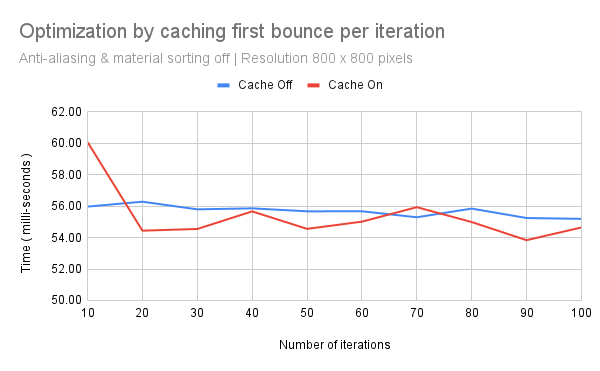
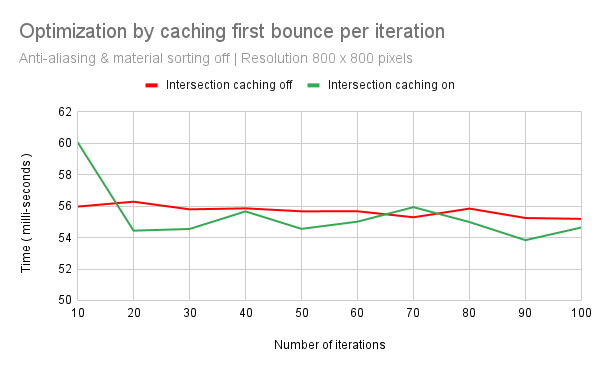
antialiasing performance

diff --git a/README.md b/README.md
@@ -83,6 +83,12 @@ We can set the focal length of our camera to focus on foreground, mid-ground or 
 |---|
 |![](img/performanceAnalysis/cacheIntersections.png)|
 
+For the above observations, anti-aliasing was turned off. If anti-aliasing is implemented along with caching first bounce intersections, it can be highly inefficient.
+
+|Anti-aliasing tested with intersection caching|
+|---|
+|![](img/performanceAnalysis/antialiasing.png)|
+
 ### Path continuation/termination using stream compaction
 
 
